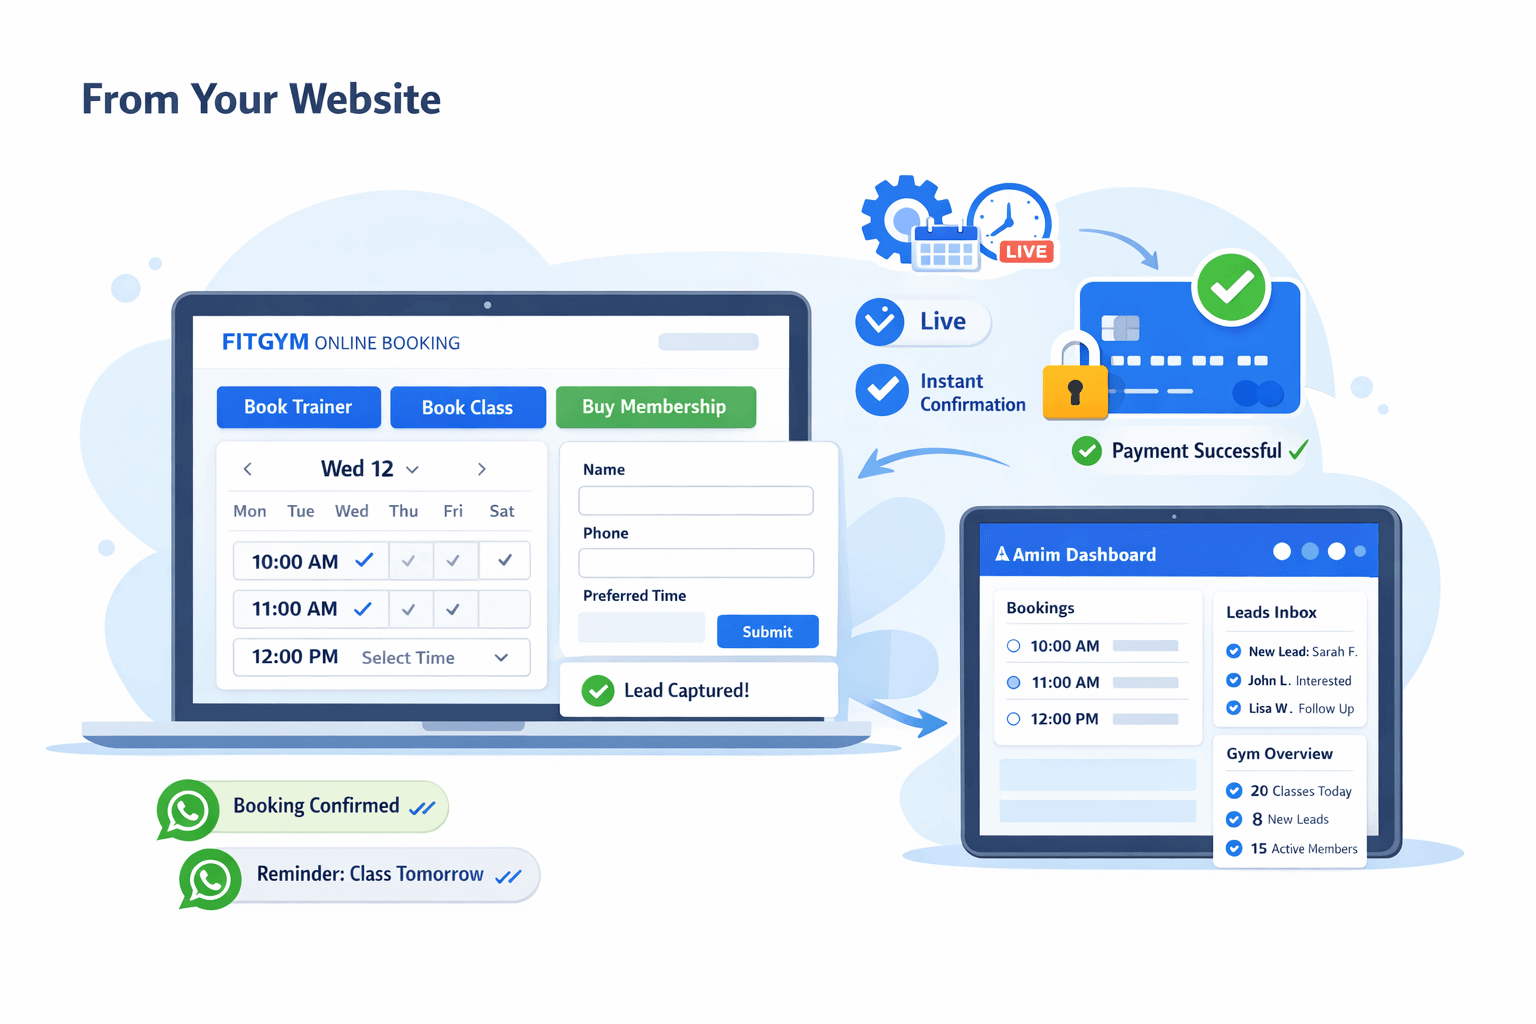
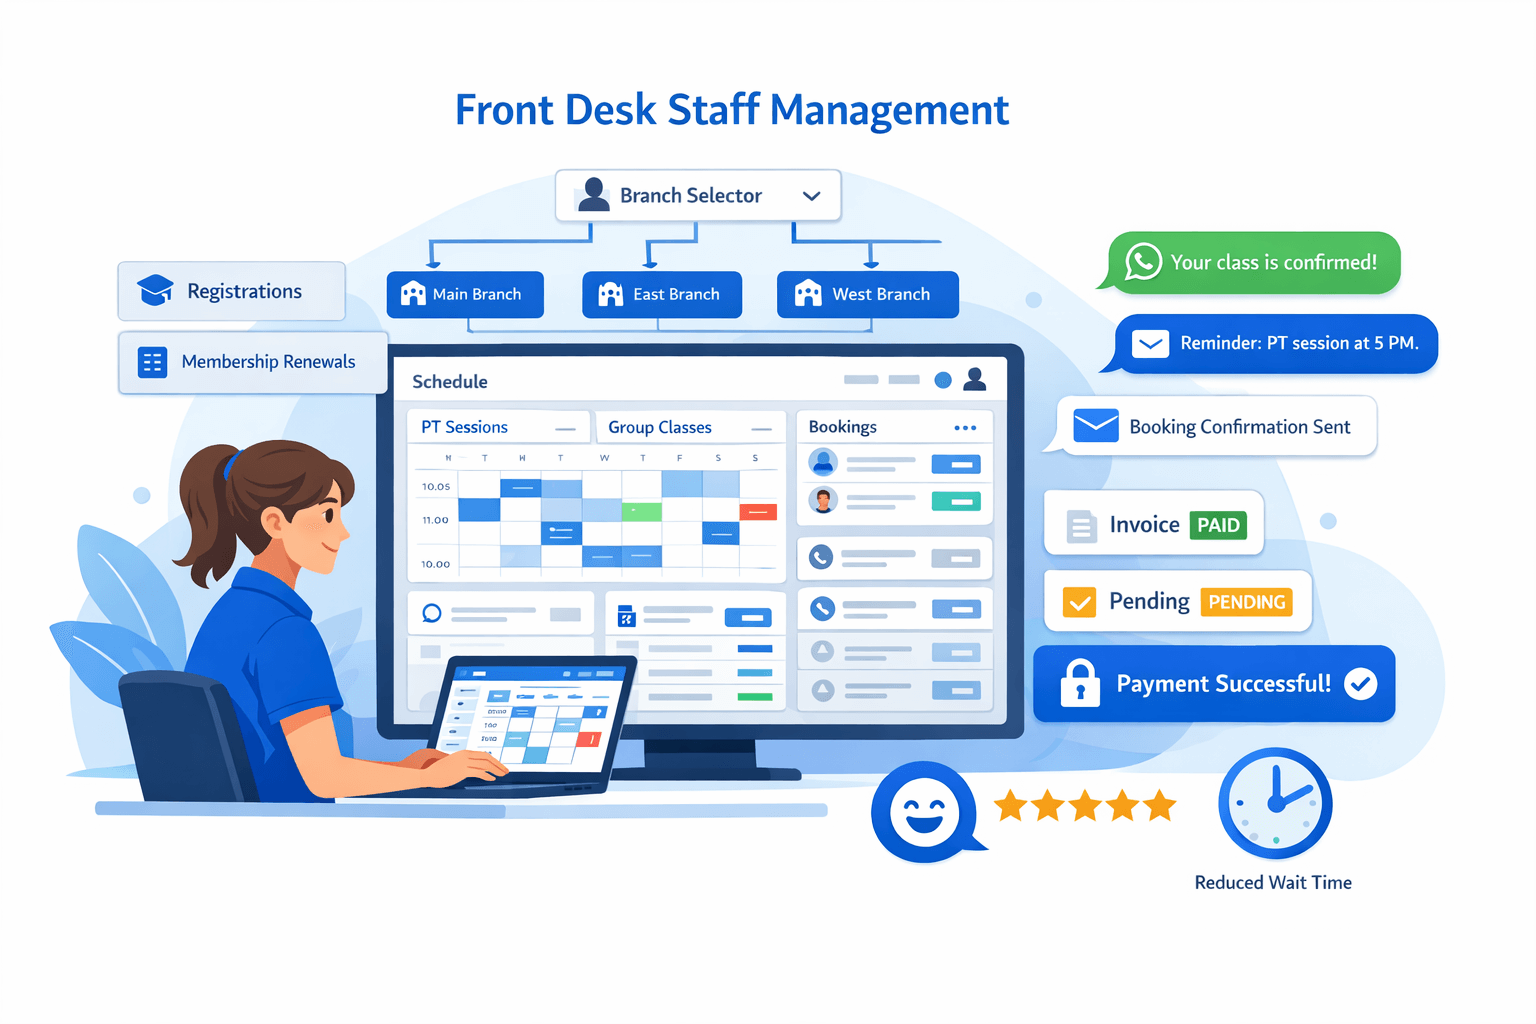
url changed

diff --git a/bahrain.html b/bahrain.html
@@ -321,23 +321,24 @@
                 </div>
                 <div class="container pb-5">
                     <div class="row">
-                        <div class="col-md-4 col-lg-4">
-                            <div class="item">
-                                <div class="item-img"><img loading="lazy" src="images/Bilingual.jpeg" class="img-fluid"></div>
-                                <div class="item-content">
-                                    <h6>GCC-Ready Bilingual Platform</h6>
-                                    <p>Bahrain gyms can operate smoothly in both Arabic and English, streamline operations, support local and regional payments, enhance member experience, and position themselves as professional, inclusive, and growth-ready brands thanks to a GCC-ready bilingual platform.
-
-                                    </p>
-                                </div>
-                            </div>
-                        </div>
+                       
                         <div class="col-md-4 col-lg-4">
                             <div class="item">
                                 <div class="item-img"><img loading="lazy" src="images/Automate_billing.jpg" class="img-fluid"></div>
                                 <div class="item-content">
                                     <h6>Automate Billing & Boost Revenue</h6>
                                     <p>The Automate Billing & Boost Revenue feature fully automates memberships, recurring payments, renewals, and reminders via secure GCC-ready gateways, ensuring seamless collections, real-time revenue tracking, fewer disputes, and predictable, growth-ready cash flow.
+
+                                    </p>
+                                </div>
+                            </div>
+                        </div>
+                         <div class="col-md-4 col-lg-4">
+                            <div class="item">
+                                <div class="item-img"><img loading="lazy" src="images/Bilingual.jpeg" class="img-fluid"></div>
+                                <div class="item-content">
+                                    <h6>GCC-Ready Bilingual Platform</h6>
+                                    <p>Bahrain gyms can operate smoothly in both Arabic and English, streamline operations, support local and regional payments, enhance member experience, and position themselves as professional, inclusive, and growth-ready brands thanks to a GCC-ready bilingual platform.
 
                                     </p>
                                 </div>
@@ -914,7 +915,7 @@ Securely manage your gym operations from any device, anywhere, with transparency
                             <h6>Solutions</h6>
                             <ul>
                                 <li><a href="gyms.html">Gym</a></li>
-                                <li><a href="fitness-studio.html">MMA Studio</a></li>
+                                <li><a href="mma-studio.html">MMA Studio</a></li>
                                 <li><a href="dance-studio.html">Dance Studio</a></li>
                                 <li><a href="cross-fit.html">Cross fit</a></li>
                                 <li><a href="yoga.html">Yoga</a></li>

diff --git a/booking.html b/booking.html
@@ -436,7 +436,7 @@ Members can reserve trainers, classes, or memberships at any time with a branded
                 </div>
                 <div class="col-lg-6 mt-4 mt-lg-0">
                     <div class="feature-img-wrapper">
-                        <img src="assets/From_your_website.png" alt="Workout Plan" class="img-fluid">
+                        <img src="assets/Book_From_your_website.jpg.jpeg" alt="Workout Plan" class="img-fluid">
                     </div>
                 </div>
             </div>
@@ -581,7 +581,7 @@ Members can reserve trainers, classes, or memberships at any time with a branded
                             <h6>Solutions</h6>
                             <ul>
                                 <li><a href="gyms.html">Gym</a></li>
-                                <li><a href="fitness-studio.html">MMA Studio</a></li>
+                                <li><a href="mma-studio.html">MMA Studio</a></li>
                                 <li><a href="dance-studio.html">Dance Studio</a></li>
                                 <li><a href="cross-fit.html">Cross fit</a></li>
                                 <li><a href="yoga.html">Yoga</a></li>

diff --git a/index.html b/index.html
@@ -1947,7 +1947,7 @@
                             <img loading="lazy" src="assets/gym-white.svg" alt="gym">
                         </div>
                     </a>
-                    <a href="fitness-studio.html" class="business-card">
+                    <a href="mma-studio.html" class="business-card">
                         <h6>MMA Studio</h6>
                         <div class="business-icon">
                             <img loading="lazy" src="assets/kick-blue.svg" alt="gym">
@@ -2527,7 +2527,7 @@
                             <h6>Solutions</h6>
                             <ul>
                                 <li><a href="gyms.html">Gym</a></li>
-                                <li><a href="fitness-studio.html">MMA Studio</a></li>
+                                <li><a href="mma-studio.html">MMA Studio</a></li>
                                 <li><a href="dance-studio.html">Dance Studio</a></li>
                                 <li><a href="cross-fit.html">Cross fit</a></li>
                                 <li><a href="yoga.html">Yoga</a></li>

diff --git a/africa.html b/africa.html
@@ -1268,7 +1268,7 @@ Securely manage your gym operations from any device, anywhere, with transparency
                             <h6>Solutions</h6>
                             <ul>
                                 <li><a href="gyms.html">Gym</a></li>
-                                <li><a href="fitness-studio.html">MMA Studio</a></li>
+                                <li><a href="mma-studio.html">MMA Studio</a></li>
                                 <li><a href="dance-studio.html">Dance Studio</a></li>
                                 <li><a href="cross-fit.html">Cross fit</a></li>
                                 <li><a href="yoga.html">Yoga</a></li>

diff --git a/canada.html b/canada.html
@@ -1267,7 +1267,7 @@ Securely manage your gym operations from any device, anywhere, with transparency
                             <h6>Solutions</h6>
                             <ul>
                                 <li><a href="gyms.html">Gym</a></li>
-                                <li><a href="fitness-studio.html">MMA Studio</a></li>
+                                <li><a href="mma-studio.html">MMA Studio</a></li>
                                 <li><a href="dance-studio.html">Dance Studio</a></li>
                                 <li><a href="cross-fit.html">Cross fit</a></li>
                                 <li><a href="yoga.html">Yoga</a></li>

diff --git a/coming-soon.html b/coming-soon.html
@@ -1822,7 +1822,7 @@ Securely manage your gym operations from any device, anywhere, with transparency
                             <h6>Solutions</h6>
                             <ul>
                                 <li><a href="gyms.html">Gym</a></li>
-                                <li><a href="fitness-studio.html">MMA Studio</a></li>
+                                <li><a href="mma-studio.html">MMA Studio</a></li>
                                 <li><a href="dance-studio.html">Dance Studio</a></li>
                                 <li><a href="cross-fit.html">Cross fit</a></li>
                                 <li><a href="yoga.html">Yoga</a></li>

diff --git a/malaysia.html b/malaysia.html
@@ -1267,7 +1267,7 @@ Securely manage your gym operations from any device, anywhere, with transparency
                             <h6>Solutions</h6>
                             <ul>
                                 <li><a href="gyms.html">Gym</a></li>
-                                <li><a href="fitness-studio.html">MMA Studio</a></li>
+                                <li><a href="mma-studio.html">MMA Studio</a></li>
                                 <li><a href="dance-studio.html">Dance Studio</a></li>
                                 <li><a href="cross-fit.html">Cross fit</a></li>
                                 <li><a href="yoga.html">Yoga</a></li>

diff --git a/qatar.html b/qatar.html
@@ -1267,7 +1267,7 @@ Securely manage your gym operations from any device, anywhere, with transparency
                             <h6>Solutions</h6>
                             <ul>
                                 <li><a href="gyms.html">Gym</a></li>
-                                <li><a href="fitness-studio.html">MMA Studio</a></li>
+                                <li><a href="mma-studio.html">MMA Studio</a></li>
                                 <li><a href="dance-studio.html">Dance Studio</a></li>
                                 <li><a href="cross-fit.html">Cross fit</a></li>
                                 <li><a href="yoga.html">Yoga</a></li>

diff --git a/singapore.html b/singapore.html
@@ -1268,7 +1268,7 @@ Securely manage your gym operations from any device, anywhere, with transparency
                             <h6>Solutions</h6>
                             <ul>
                                 <li><a href="gyms.html">Gym</a></li>
-                                <li><a href="fitness-studio.html">MMA Studio</a></li>
+                                <li><a href="mma-studio.html">MMA Studio</a></li>
                                 <li><a href="dance-studio.html">Dance Studio</a></li>
                                 <li><a href="cross-fit.html">Cross fit</a></li>
                                 <li><a href="yoga.html">Yoga</a></li>

diff --git a/billing.html b/billing.html
@@ -574,7 +574,7 @@ POS enables online payments, boosting in-house sales & retail. Effortless checko
                             <h6>Solutions</h6>
                             <ul>
                                 <li><a href="gyms.html">Gym</a></li>
-                                <li><a href="fitness-studio.html">MMA Studio</a></li>
+                                <li><a href="mma-studio.html">MMA Studio</a></li>
                                 <li><a href="dance-studio.html">Dance Studio</a></li>
                                 <li><a href="cross-fit.html">Cross fit</a></li>
                                 <li><a href="yoga.html">Yoga</a></li>

diff --git a/bio-metric.html b/bio-metric.html
@@ -580,7 +580,7 @@ Using RFID or biometrics, turnstile integration provides smooth, touchless entry
                             <h6>Solutions</h6>
                             <ul>
                                 <li><a href="gyms.html">Gym</a></li>
-                                <li><a href="fitness-studio.html">MMA Studio</a></li>
+                                <li><a href="mma-studio.html">MMA Studio</a></li>
                                 <li><a href="dance-studio.html">Dance Studio</a></li>
                                 <li><a href="cross-fit.html">Cross fit</a></li>
                                 <li><a href="yoga.html">Yoga</a></li>

diff --git a/blog.html b/blog.html
@@ -693,7 +693,7 @@ Gym management software has become an essential tool for fitness businesses aimi
                             <h6>Solutions</h6>
                             <ul>
                                 <li><a href="gyms.html">Gym</a></li>
-                                <li><a href="fitness-studio.html">MMA Studio</a></li>
+                                <li><a href="mma-studio.html">MMA Studio</a></li>
                                 <li><a href="dance-studio.html">Dance Studio</a></li>
                                 <li><a href="cross-fit.html">Cross fit</a></li>
                                 <li><a href="yoga.html">Yoga</a></li>
